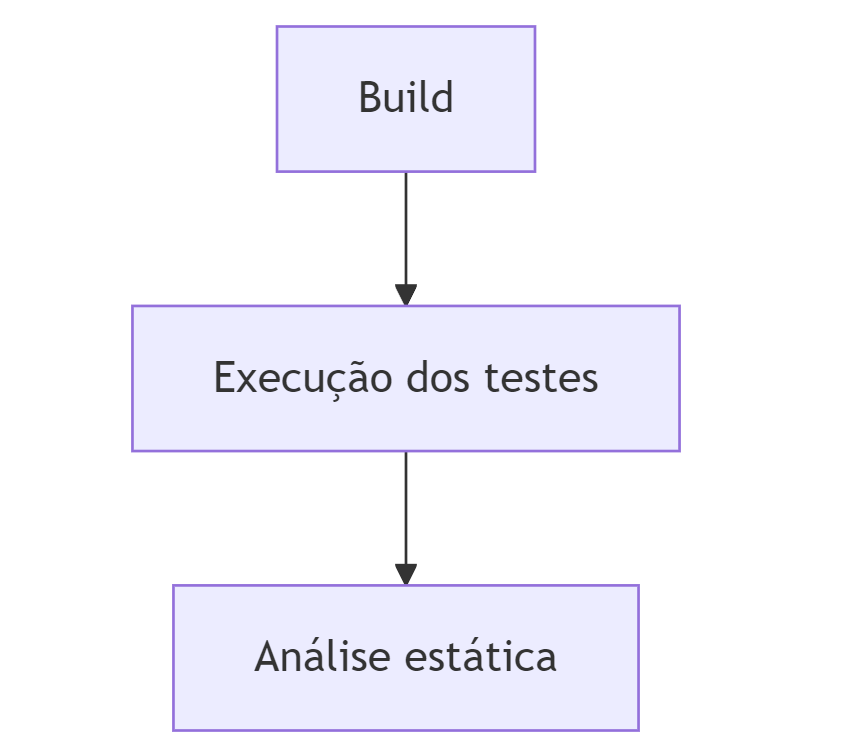
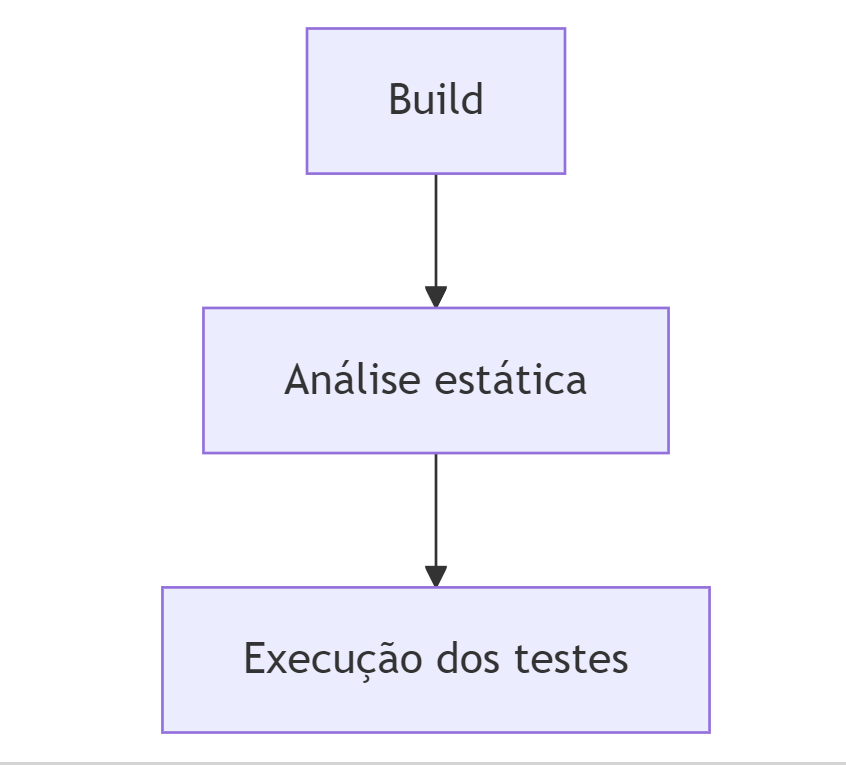
docs: Add diagrams e documentation

Changed region(s): [[0.0, 0.0309, 1.0, 1.0], [0.3995, 0.0927, 0.5839, 0.1546]]

diff --git a/README.md b/README.md
@@ -80,7 +80,7 @@ Nosso processo pode ser visto em: .github/workflows/github-actions-demo.yml
 Para editar o diagrama
 ```
 flowchart TD
-    A[Build] --> B[Execução dos testes] --> C[Análise estática]
+    A[Build] --> B[Análise estática] --> C[Execução dos testes]
 ```
 Site para edição: https://mermaid.live/edit#
 
@@ -88,11 +88,11 @@ Site para edição: https://mermaid.live/edit#
 O processo de pipeline é executado a cada commit. Optamos por não restringir a branches principais já que é importante para o desenvolvedor ver se sua entrega está correta antes de entregá-la.
 
 ## Etapa de build
-A etapa de build realiza a compilação da aplicação. Para isso, utilizamos a JDK (Java) na versão 21 e o Maven com o comando `mvn -B clean compile`
-
-## Testes automatizados
-Os testes unitários da aplicação são executados utilizando o próprio Maven, com o comando `mvn test`.
+A etapa de build realiza a compilação da aplicação. Para isso, utilizamos a JDK (Java) na versão 21 e o Maven com o comando `mvn -B clean compile`.
 
 ## Análise estática
 Para análise estática utilizamos o action-checkstyle, a documentação pode ser vista em: https://github.com/marketplace/actions/checkstyle-for-java
 São verificadas questões como espaçamento, identação, nomenclaturas, etc.
+
+## Testes automatizados
+Os testes unitários da aplicação são executados utilizando o próprio Maven, com o comando `mvn test`.
